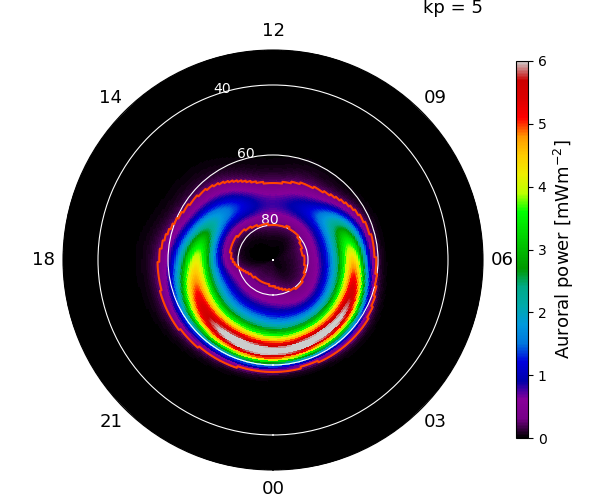
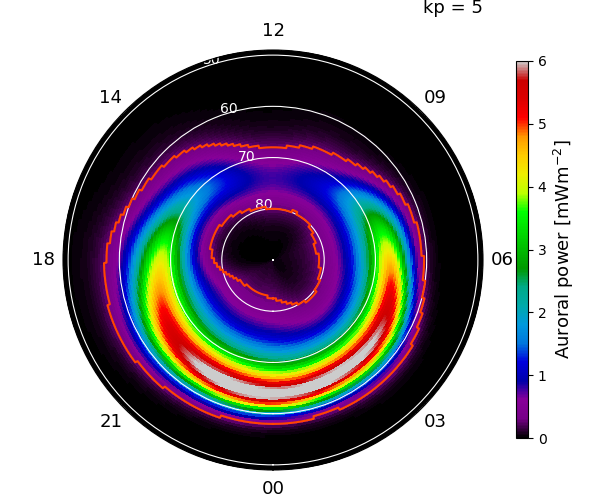
ZP figure upadted again

diff --git a/test_ZP_oval.py b/test_ZP_oval.py
@@ -21,7 +21,7 @@ t, lat = np.meshgrid(mlt, mlat)
 x = (np.pi/12)*t
 y =  90 - lat
 #
-yticks = np.int32(np.arange(10, 90-mlat[0]+1, 10))
+yticks = np.int32(np.arange(10, 90-50+1, 10))
 yticklabel = 90-yticks
 #
 clim = 6
@@ -45,9 +45,9 @@ ax.xaxis.set_major_locator(mticker.FixedLocator(ax.get_xticks()))
 ax.xaxis.set_major_formatter(mticker.FixedFormatter(xticks))
 ax.set_theta_zero_location("S")
 ax.set_xticklabels(xticks, fontsize = 13)
-ax.set_yticks(yticks[0::2])
+ax.set_yticks(yticks)
 # ax.set_yticks(yticks, minor = True)
-ax.set_yticklabels(yticklabel[0::2])
+ax.set_yticklabels(yticklabel)
 ax.set_rlabel_position(-160)
 ax.grid(color = 'w', axis = 'y')
 ax.tick_params(axis='y', colors='w')
